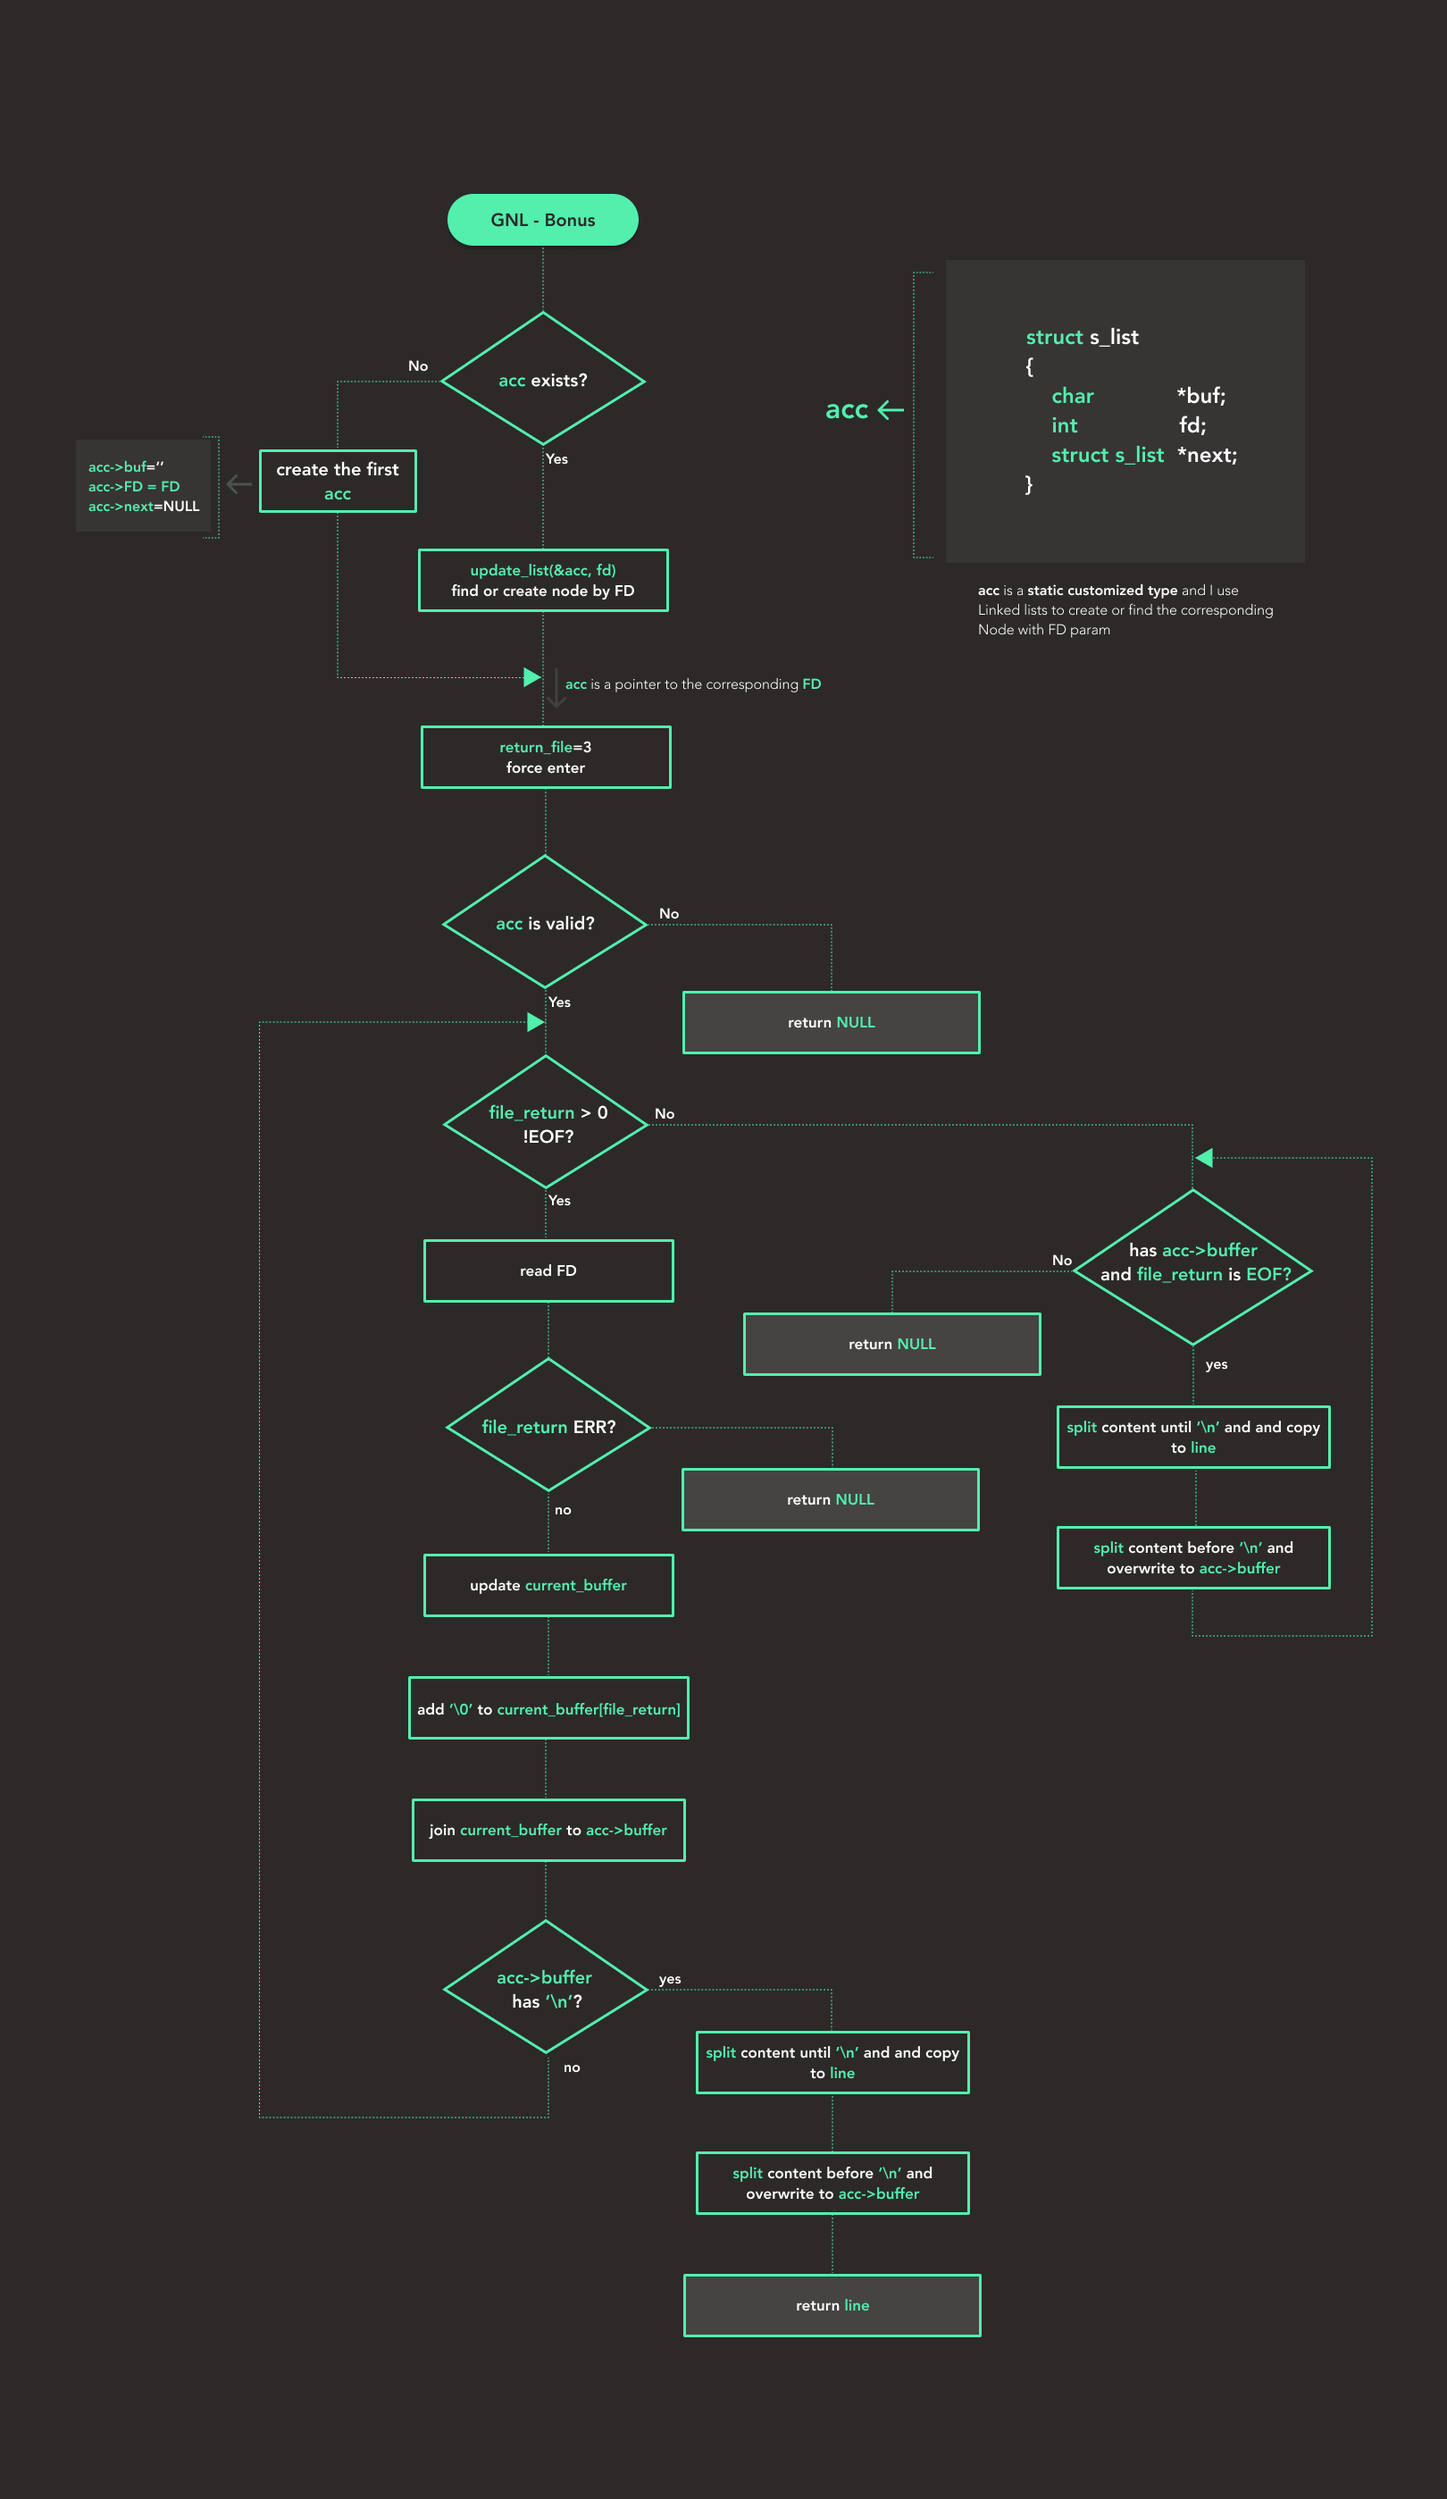
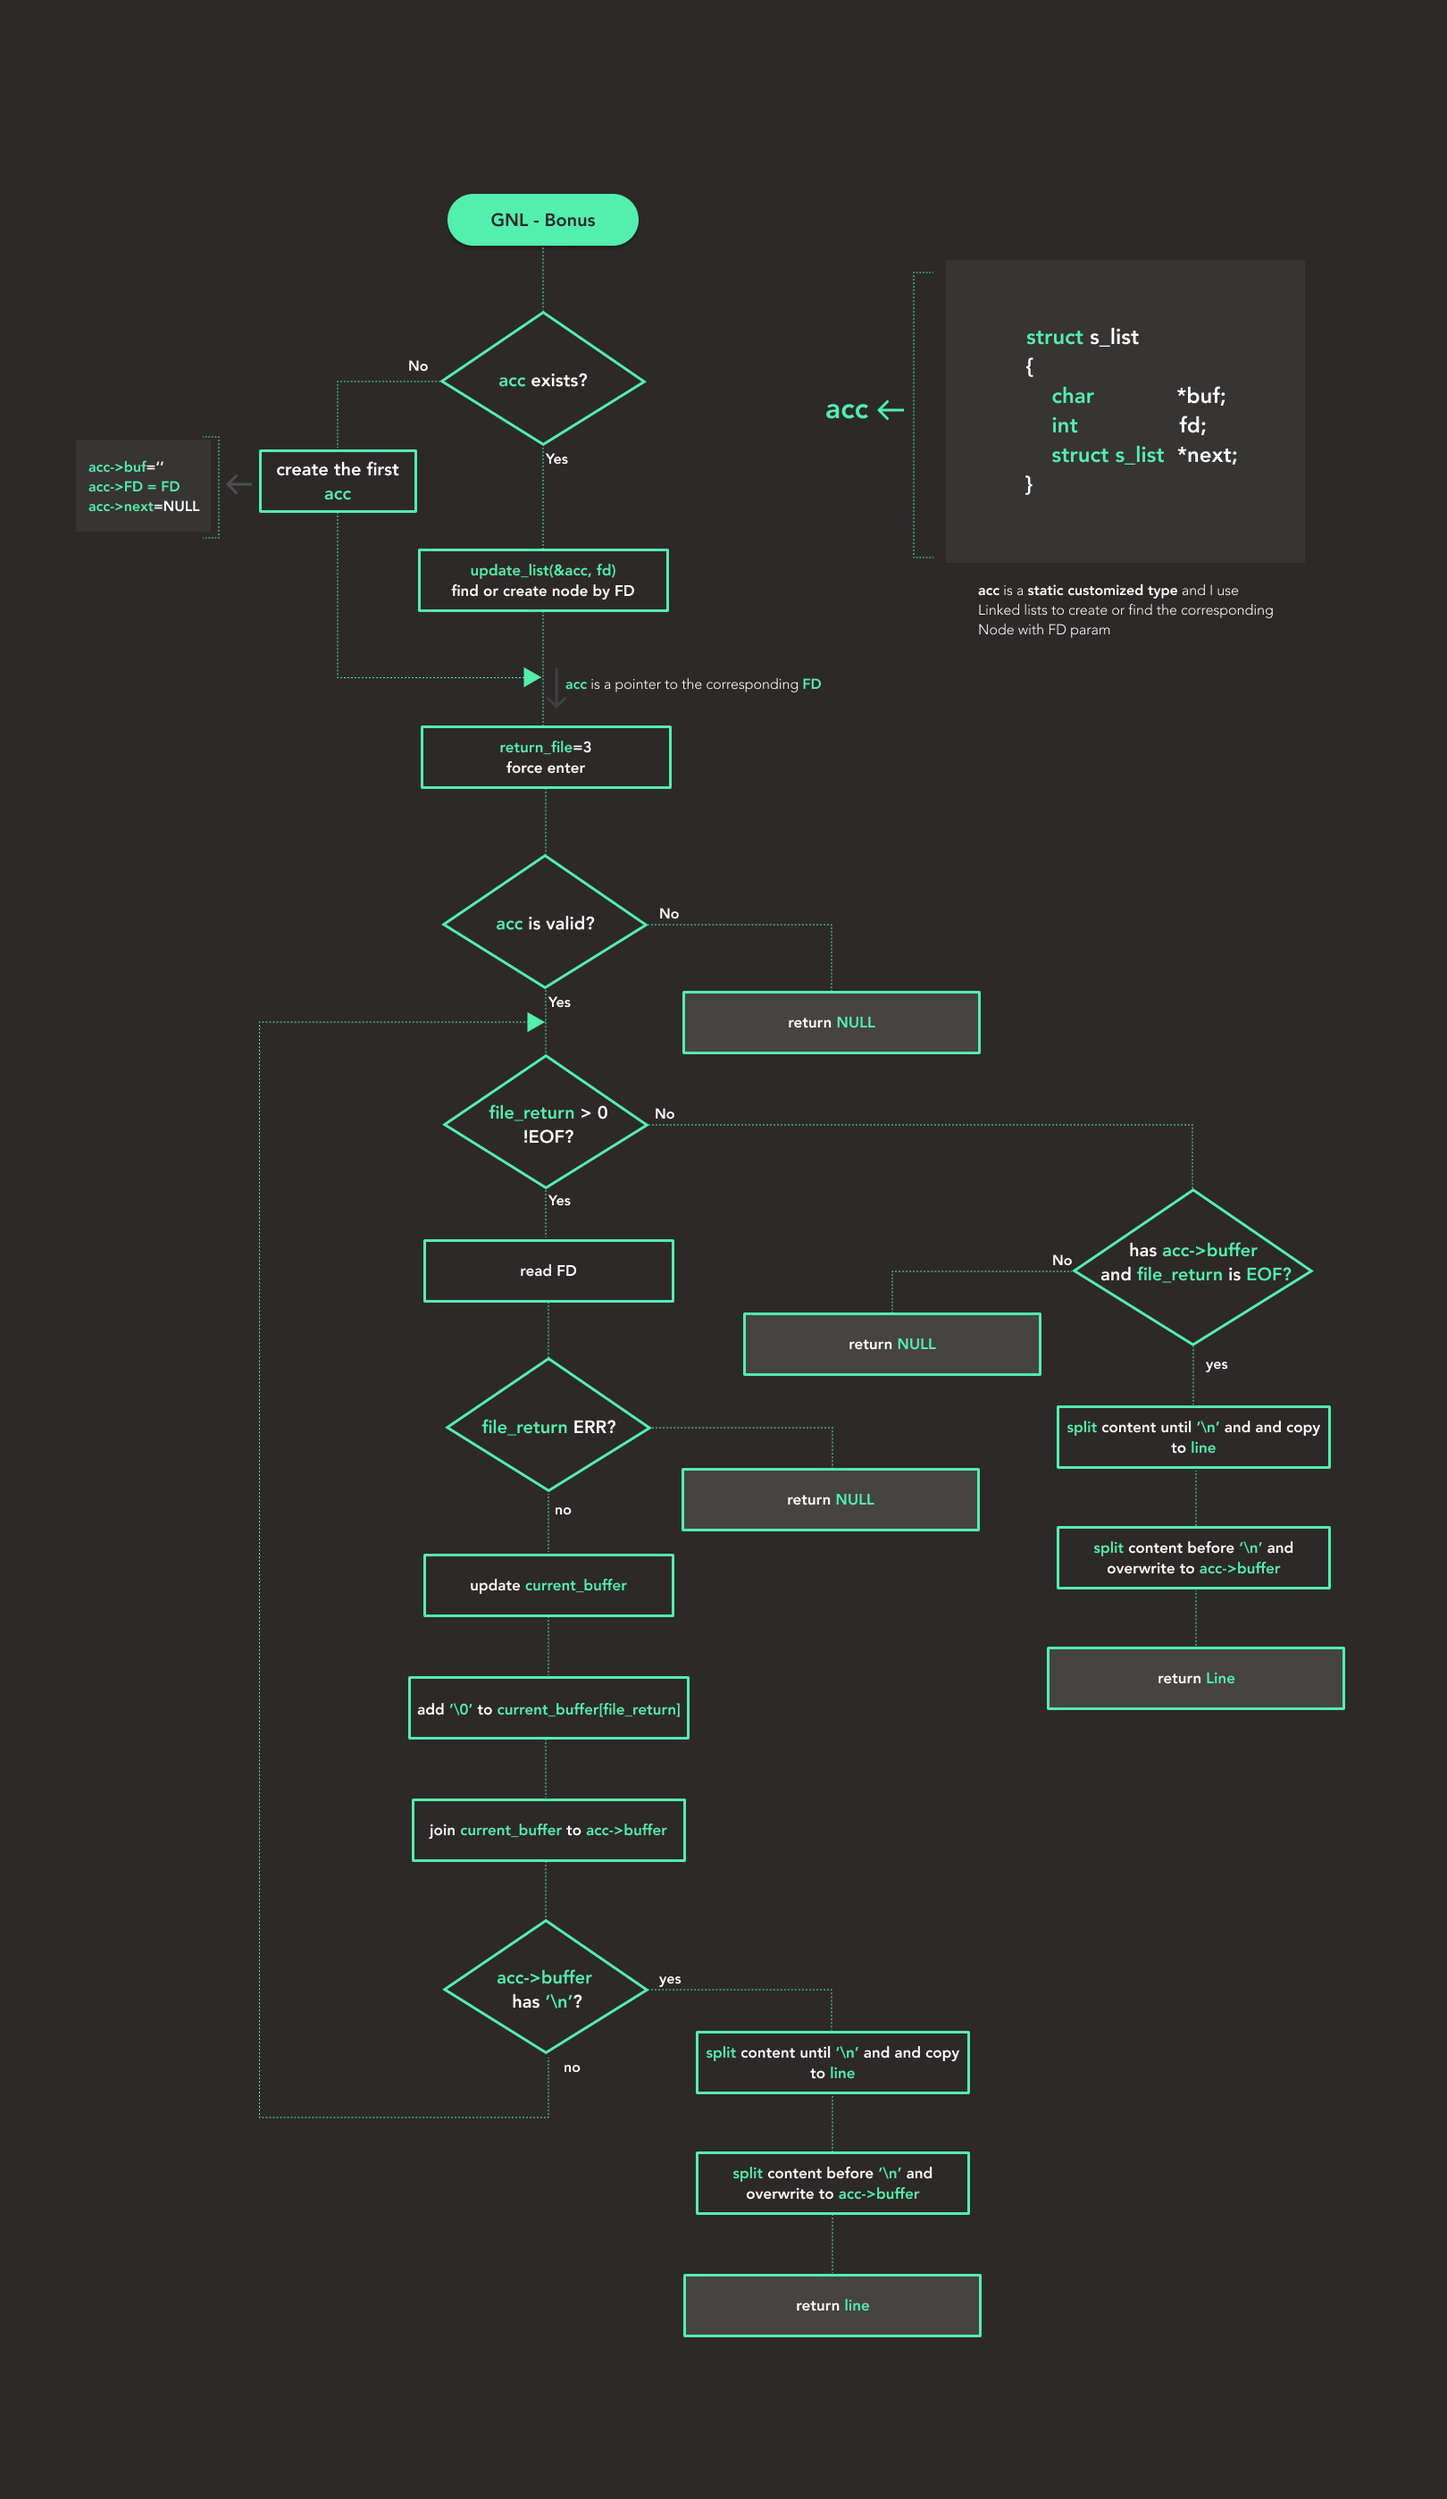
docs: update moulinete result && update bonus diagram

Changed region(s): [[0.7099, 0.6532, 0.9568, 0.6843]]

diff --git a/README.md b/README.md
@@ -1,12 +1,12 @@
 
 <p align="center">
-<img src="./images/gnl-logo.png" />
+<img src="./images/gnl-logo-bonus.png" />
 </p>
 <h1 align="center">Get Next Line (GNL) </h1>
 <p align="center">
 <img src="https://img.shields.io/badge/Mandatory-OK-brightgreen"/>
 <img src="https://img.shields.io/badge/Bonus-OK-brightgreen"/>
-<img src="https://img.shields.io/badge/Final%20Score-100-blue"/>
+<img src="https://img.shields.io/badge/Final%20Score-125-blue"/>
 </p>
 <p align="center">Function that returns a line read from a file descriptor: we should be
 able to call getNextLine(int fd) multiple times and returns one line at a time. If some error occur or EOF is reached, return NULL.</p>
